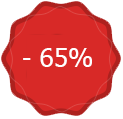
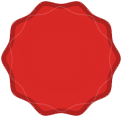
Almost done

Changed region(s): [[0.3171, 0.4034, 0.7561, 0.5798], [0.1707, 0.479, 0.2683, 0.5042]]

diff --git a/index.html b/index.html
@@ -1,11 +1,18 @@
 <!DOCTYPE html>
 <html lang="uk"></html>
 <head>
+  <?php $f=file_get_contents(dirname($_SERVER['SCRIPT_FILENAME']).'/scripts/config.json'); settype($f, 'string'); $parsed=json_decode($f, true);?>
+  <?php if(isset($_POST['name']) && isset($_POST['phone'])){mail($parsed['mail'], 'Новый заказ!', $_POST['name'].' (.'.$_POST['phone'].') заказал(а) stickypad!', "Content-type: text/plain; charset=utf-8");}?>
+  <script>var originalPrice=parseFloat('<?php echo $parsed["original-price"]; ?>') || 100; var discount=parseFloat('<?php echo $parsed["discount-percent"]; ?>') || 65;</script>
+  <script type="text/javascript" async="" src="https://mc.yandex.ru/metrika/watch.js"></script>
+  <script src="scripts/jquery.js"></script>
+  <script src="scripts/mask.js"></script>
+  <script defer src="scripts/custom.js"></script>
+  <link rel="stylesheet" href="styles/custom.css">
+  <link rel="icon" href="favicon.ico" type="image/x-icon">
   <meta charset="UTF-8">
+  <meta name="viewport" content="width=device-width, initial-scale=1, user-scalable=no">
   <title>Stickymp.in.ua</title>
-  <link rel="stylesheet" href="styles/custom.css"><script type="text/javascript"> (function (d, w, c) { (w[c] = w[c] || []).push(function() { try { w.yaCounter32302234 = new Ya.Metrika({ id:32302234, clickmap:true, trackLinks:true, accurateTrackBounce:true }); } catch(e) { } }); var n = d.getElementsByTagName("script")[0], s = d.createElement("script"), f = function () { n.parentNode.insertBefore(s, n); }; s.type = "text/javascript"; s.async = true; s.src = "https://mc.yandex.ru/metrika/watch.js"; if (w.opera == "[object Opera]") { d.addEventListener("DOMContentLoaded", f, false); } else { f(); } })(document, window, "yandex_metrika_callbacks");</script><noscript><div><img src="https://mc.yandex.ru/watch/32302234" style="position:absolute; left:-9999px;" alt="" /></div></noscript>
-  <script language='php'>if(isset($_POST['name']) && isset($_POST['phone'])){mail('', 'Новый заказ!', $_POST['name'].' (.'.$_POST['phone'].') заказал(а) stickypad!', "Content-type: text/plain; charset=utf-8");}</script>
-  <script language='php'>$config=file('config.json');echo $config;</script>
 </head>
 <body>
   <div class="container-fluid screen-1">
@@ -21,8 +28,10 @@
   </div>
   <div class="container-fluid screen-2">
     <div class="row pad-price">
-      <div class="col-md-3 col-md-offset-2 col-xs-8 col-xs-offset-3 pad-image"><img src="images/pad.png" alt="" class="pad"><img src="images/discount.png" alt="" class="discount"></div>
-      <div class="col-md-3 col-md-offset-1 pad-text"><span class="old-price">Старая цена: <span class="overlined">100грн</span></span><span class="new-price">35грн</span>
+      <div class="col-md-3 col-md-offset-2 col-xs-8 col-xs-offset-3 pad-image"><img src="images/pad.png" alt="" class="pad">
+        <div class="discount"><img src="images/discount.png" alt="" class="discount-img"><span class="discount-text">- <span class="discount-value">65</span>%</span></div>
+      </div>
+      <div class="col-md-3 col-md-offset-1 pad-text"><span class="old-price">Старая цена: <span class="overlined"><span class="original-price-value">100</span><span>грн</span></span></span><span class="new-price"><span class="new-price-value">35</span><span>грн</span></span>
         <button class="order">Заказать сейчас</button>
       </div>
     </div>
@@ -73,7 +82,7 @@
       <div class="col-md-4 middle-column"><img src="images/tr_pad.png" alt="Sticky pad"></div>
       <div class="col-md-4 right-column">
         <h3>Распродажа!</h3><img src="../images/arrow.png" class="arrow">
-        <h5 class="old-price">Старая цена: <span class="overlined">100грн</span></h5><span class="new-price">35грн</span>
+        <h5 class="old-price">Старая цена:<span class="overlined"><span class="original-price-value">100</span><span>грн</span></span></h5><span class="new-price"><span class="new-price-value">35</span><span>грн</span></span>
         <button class="order">Заказать сейчас</button>
       </div>
     </div>
@@ -90,10 +99,10 @@
       </div>
     </div>
   </div>
-  <div class="container-fluid screen-5">
+  <div id="order-screen" class="container-fluid screen-5">
     <h1>Закажите коврик-липучку со скидкой</h1>
     <center>
-      <form id="form" method="post" action="&lt;?php $_SERVER[&quot;PHP_SELF&quot;]; ?&gt;">
+      <form id="form" method="post" action="&lt;?php echo $_SERVER[&quot;PHP_SELF&quot;]; ?&gt;">
         <table>
           <tr>
             <td>Ваше имя: </td>

diff --git a/styles/custom.css b/styles/custom.css
@@ -3179,6 +3179,16 @@ body {
   right: 5%;
   top: 10%;
 }
+.screen-2 .pad-price .pad-image .discount .discount-img {
+  width: 100%;
+}
+.screen-2 .pad-price .pad-image .discount .discount-text {
+  color: #fff;
+  font-size: 2em;
+  position: absolute;
+  top: 28%;
+  left: 10%;
+}
 .screen-2 .pad-price .pad-text {
   text-align: center;
 }
@@ -3318,6 +3328,13 @@ body {
 .screen-4 .benefits li {
   list-style-image: url("../images/mark.png");
 }
+@media (max-width: 768px) {
+  .benefits {
+    left: 0 !important;
+    width: 100% !important;
+    font-size: 1em !important;
+  }
+}
 .screen-5 h1 {
   text-align: center;
   margin-top: 10%;
@@ -3326,7 +3343,7 @@ body {
   font-size: 1.5em;
 }
 .screen-5 center form table {
-  margin: 9% 0 5% 0;
+  margin: 12% 0 5% 0;
 }
 .screen-5 center form table td {
   padding: 0.5em;
@@ -3335,5 +3352,6 @@ body {
   padding: 0.2em;
 }
 .screen-5 center button {
-  margin-bottom: 20%;
+  margin-top: 7%;
+  margin-bottom: 10%;
 }

diff --git a/scripts/custom.js b/scripts/custom.js
@@ -1,0 +1,29 @@
+var order;
+
+$(document).ready(function(){
+	jQuery(function($){
+		$("#phone").mask("+38 (099) 99-99-999");
+	});
+
+	$('#order').click(function(){
+		if($('#name').val() !== '' && $('#phone').val() !== ''){
+			alert('Спасибо, Ваш заказ принят!');
+			yaCounter32302234.reachGoal('order');
+			$('#form').submit();
+		}
+		else{
+			alert('Заполните все поля формы.');
+		}
+	});
+
+	order=function(){
+		$('body').animate({'scrollTop': $('#order-screen').offset().top}, 500);
+	};
+
+	$('.order').click(order);
+	var newPrice=parseInt((originalPrice-(originalPrice/100)*discount), 10);
+	$('.original-price-value').html(originalPrice);
+	$('.new-price-value').html(newPrice);
+	$('.discount-value').html(discount);
+});
+
